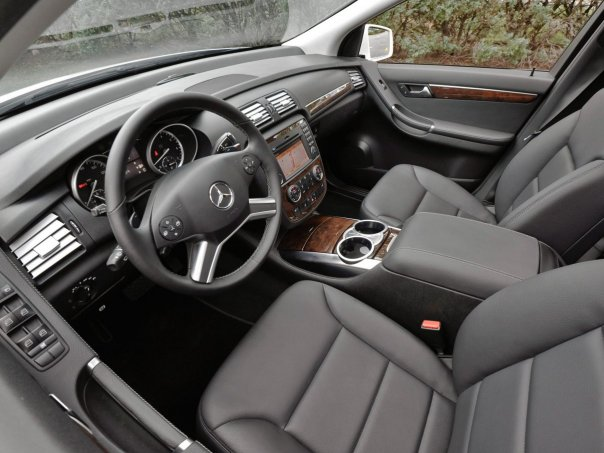
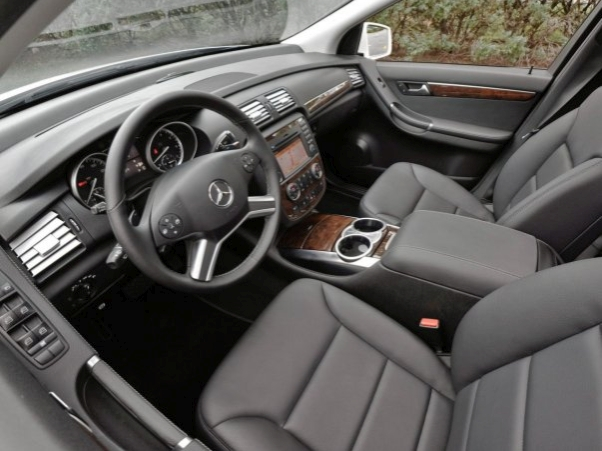
246

diff --git a/pic/ja_mb_img_r.html b/pic/ja_mb_img_r.html
@@ -120,8 +120,8 @@
 				<a href="full/r/v251_r2.jpg"><img src="style/r/v251_r2.jpg" alt="メルセデス,ベンツ,V251,Rクラス,ロングホイールベース,リヤ" width="578" height="372"></a><br>
 				<h4 class="i">Facelift</h4>
 				<p class="i m1">2010</p><br>
-				<a href="full/r/w251_f3.jpg"><img src="style/r/w251_f3.jpg" alt="メルセデス,ベンツ,W251,Rクラス,フロント" width="604" height="453"></a>
-				<a href="full/r/w251_d3.jpg"><img src="style/r/w251_d3.jpg" alt="メルセデス,ベンツ,W251,Rクラス,ダッシュボード" width="604" height="453"></a>
+				<a href="full/r/w251_f3.jpg"><img src="style/r/w251_f3.jpg" alt="メルセデス,ベンツ,W251,Rクラス,フロント" width="602" height="451"></a>
+				<a href="full/r/w251_d3.jpg"><img src="style/r/w251_d3.jpg" alt="メルセデス,ベンツ,W251,Rクラス,ダッシュボード" width="602" height="451"></a>
 				<h4>V251 (Long)</h4>
 				<a href="full/r/v251_f3.jpg"><img src="style/r/v251_f3.jpg" alt="メルセデス,ベンツ,V251,Rクラス,ロングホイールベース,フロント" width="628" height="278"></a>
 				<a href="full/r/v251_r3.jpg"><img src="style/r/v251_r3.jpg" alt="メルセデス,ベンツ,V251,Rクラス,ロングホイールベース,リヤ" width="578" height="278"></a> <br>

diff --git a/pic/mb_img_r.html b/pic/mb_img_r.html
@@ -120,8 +120,8 @@
 				<a href="full/r/v251_r2.jpg"><img src="style/r/v251_r2.jpg" alt="Mercedes,V251,R-Klasse,Lang,Rückansicht" width="578" height="372"></a><br>
 				<h4 class="i">Modellpflege</h4>
 				<p class="i m1">2010</p><br>
-				<a href="full/r/w251_f3.jpg"><img src="style/r/w251_f3.jpg" alt="Mercedes,W251,R-Klasse,Frontansicht" width="604" height="453"></a>
-				<a href="full/r/w251_d3.jpg"><img src="style/r/w251_d3.jpg" alt="Mercedes,W251,R-Klasse,Instrumententafel" width="604" height="453"></a>
+				<a href="full/r/w251_f3.jpg"><img src="style/r/w251_f3.jpg" alt="Mercedes,W251,R-Klasse,Frontansicht" width="602" height="451"></a>
+				<a href="full/r/w251_d3.jpg"><img src="style/r/w251_d3.jpg" alt="Mercedes,W251,R-Klasse,Instrumententafel" width="602" height="451"></a>
 				<h4>V251 (Lang)</h4>
 				<a href="full/r/v251_f3.jpg"><img src="style/r/v251_f3.jpg" alt="Mercedes,V251,R-Klasse,Lang,Frontansicht" width="628" height="278"></a>
 				<a href="full/r/v251_r3.jpg"><img src="style/r/v251_r3.jpg" alt="Mercedes,V251,R-Klasse,Lang,Rückansicht" width="578" height="278"></a> <br>

diff --git a/pic/en_mb_img_r.html b/pic/en_mb_img_r.html
@@ -120,8 +120,8 @@
 				<a href="full/r/v251_r2.jpg"><img src="style/r/v251_r2.jpg" alt="Mercedes,V251,R-Class,long,rear" width="578" height="372"></a><br>
 				<h4 class="i">Facelift</h4>
 				<p class="i m1">2010</p><br>
-				<a href="full/r/w251_f3.jpg"><img src="style/r/w251_f3.jpg" alt="Mercedes,W251,R-Class,front" width="604" height="453"></a>
-				<a href="full/r/w251_d3.jpg"><img src="style/r/w251_d3.jpg" alt="Mercedes,W251,R-Class,dashboard" width="604" height="453"></a>
+				<a href="full/r/w251_f3.jpg"><img src="style/r/w251_f3.jpg" alt="Mercedes,W251,R-Class,front" width="602" height="451"></a>
+				<a href="full/r/w251_d3.jpg"><img src="style/r/w251_d3.jpg" alt="Mercedes,W251,R-Class,dashboard" width="602" height="451"></a>
 				<h4>V251 (Long)</h4>
 				<a href="full/r/v251_f3.jpg"><img src="style/r/v251_f3.jpg" alt="Mercedes,V251,R-Class,long,front" width="628" height="278"></a>
 				<a href="full/r/v251_r3.jpg"><img src="style/r/v251_r3.jpg" alt="Mercedes,V251,R-Class,long,rear" width="578" height="278"></a><br>
